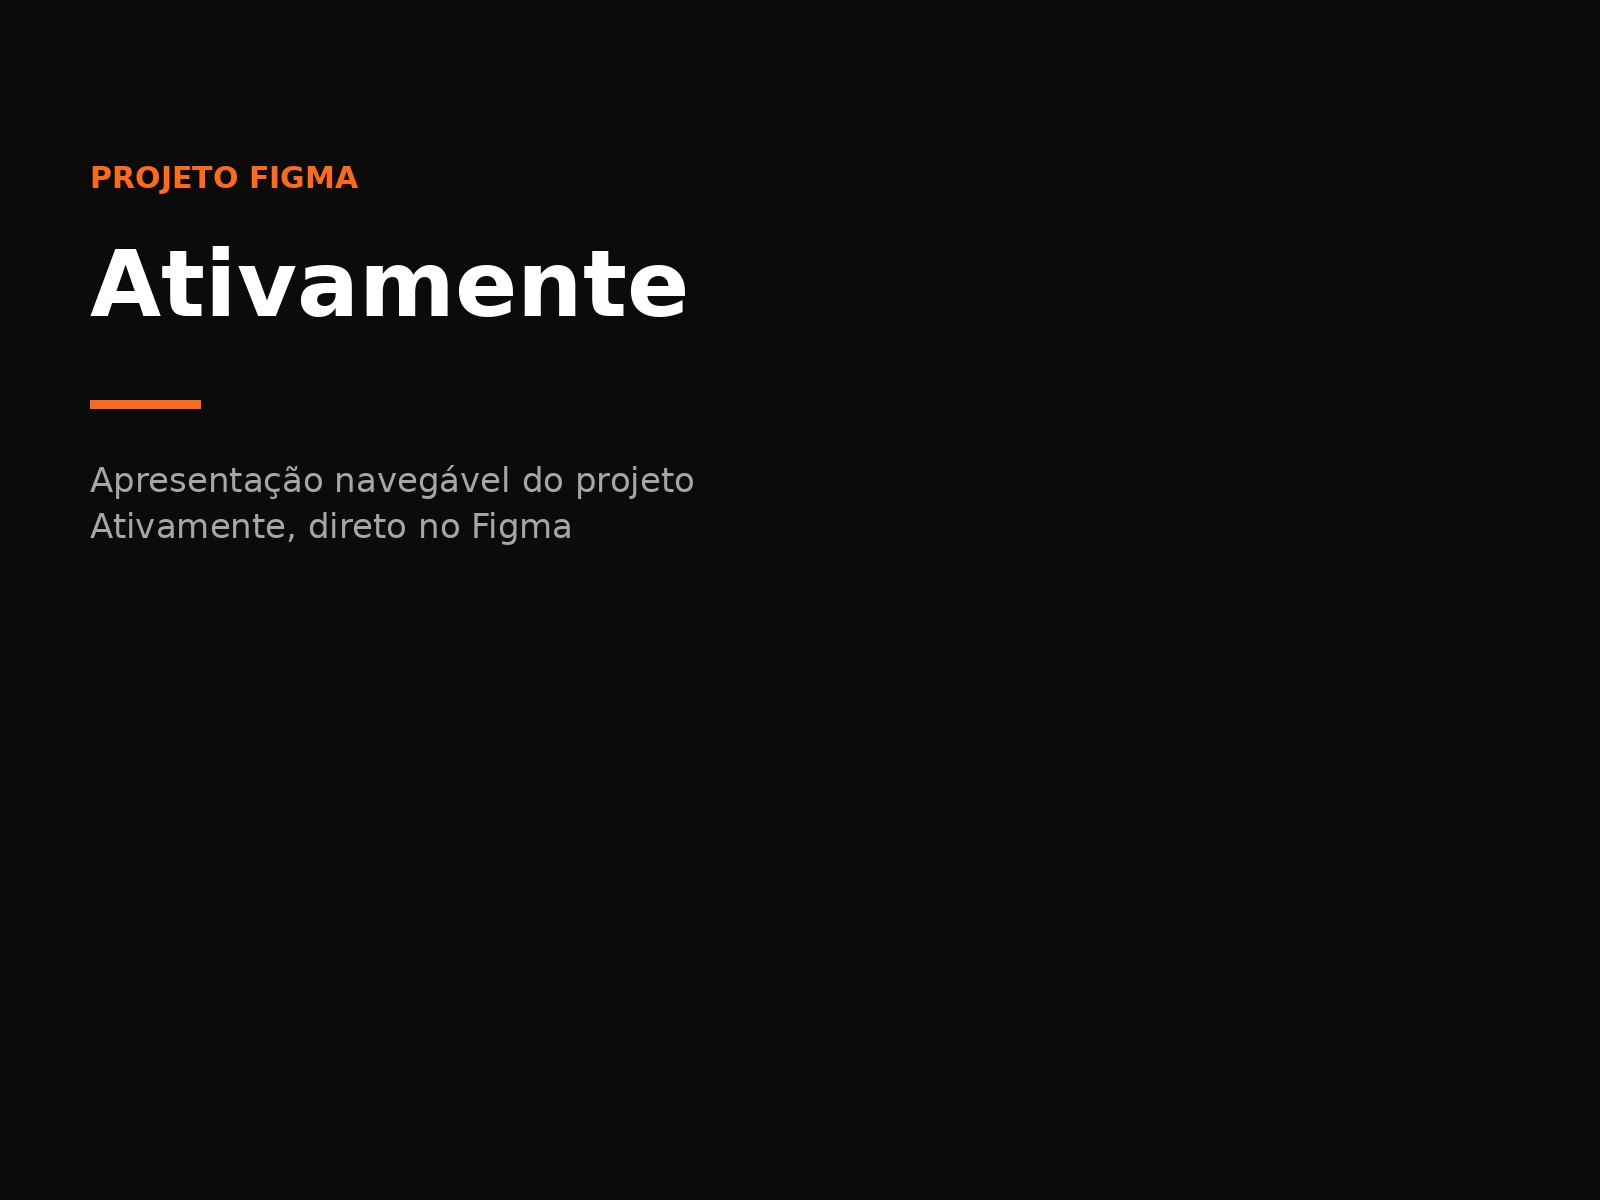
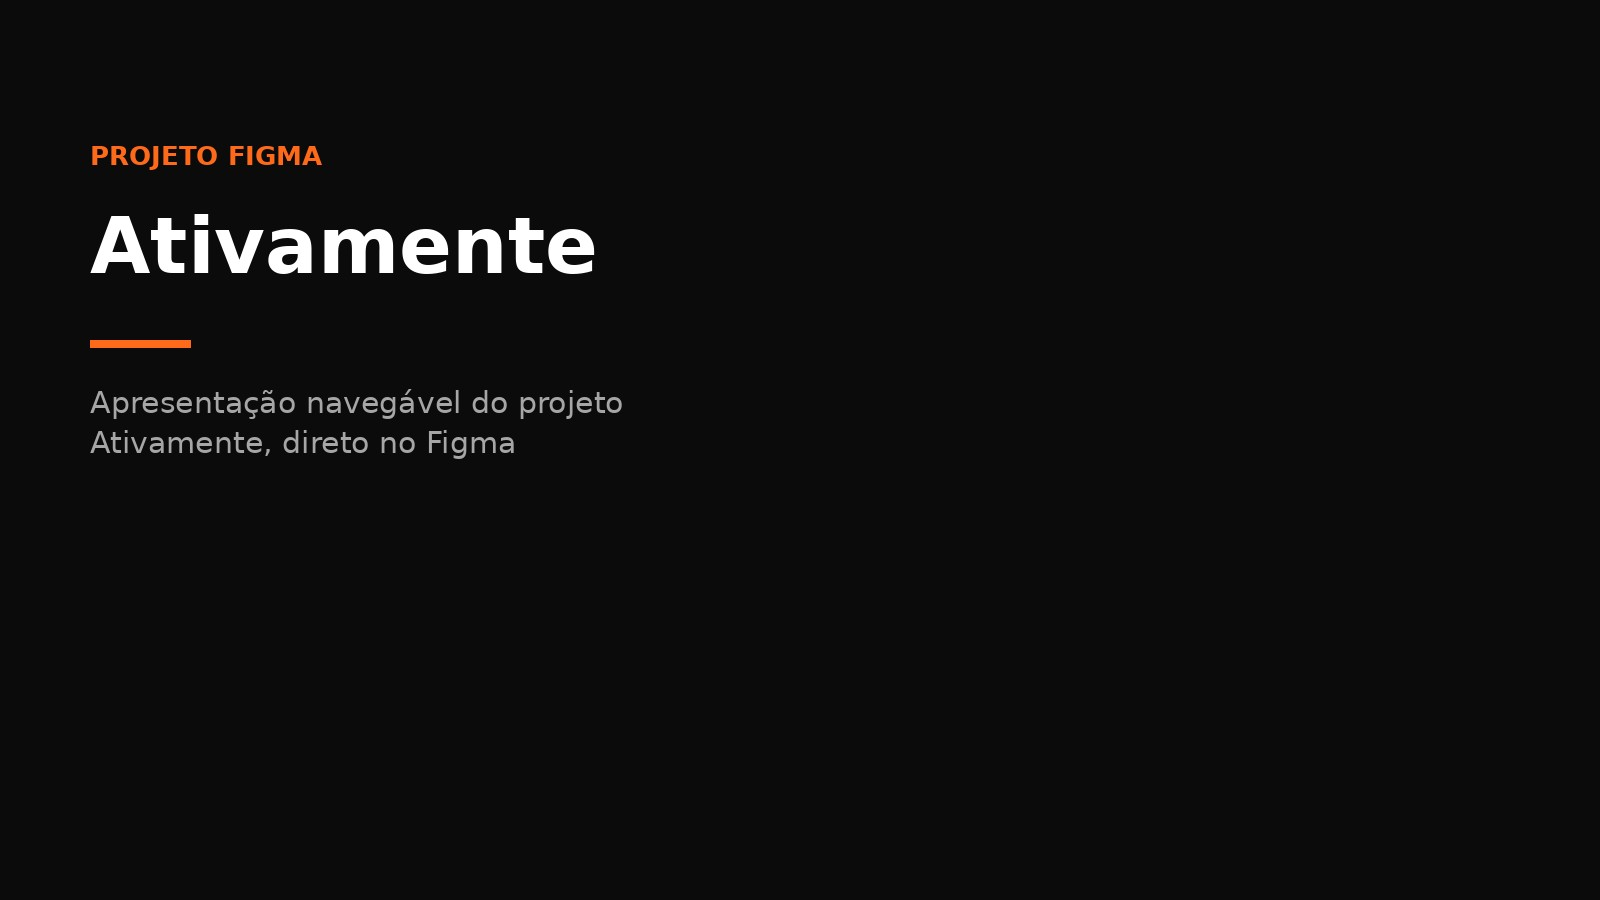
Add files via upload

Changed region(s): [[0.0312, 0.1244, 0.4375, 0.3422], [0.0312, 0.3733, 0.4375, 0.5289]]

diff --git a/index.html b/index.html
@@ -374,7 +374,7 @@
     .project-item.active { display: block; }
 
     .project-img {
-      aspect-ratio: 4/3;
+      aspect-ratio: 16/9;
       border-radius: 12px;
       background: linear-gradient(135deg, var(--bg-elev-2), #3a3a40);
       display: flex;
@@ -390,8 +390,8 @@
     .project-img img {
       width: 100%;
       height: 100%;
-      object-fit: cover;
-      object-position: top;
+      object-fit: contain;
+      object-position: center;
       transition: transform .4s ease;
     }
 
@@ -434,9 +434,9 @@
       transform: translateY(0);
     }
 
-    .project-title { font-size: .95rem; margin-bottom: 2px; transition: color .2s ease; }
+    .project-title { font-size: .85rem; margin-bottom: 2px; transition: color .2s ease; line-height: 1.3; }
     .project-item a:hover .project-title { color: var(--accent); }
-    .project-category { font-size: .78rem; color: var(--text-muted); }
+    .project-category { font-size: .72rem; color: var(--text-muted); }
 
     /* ---------- blog ---------- */
     .blog-posts-list {
